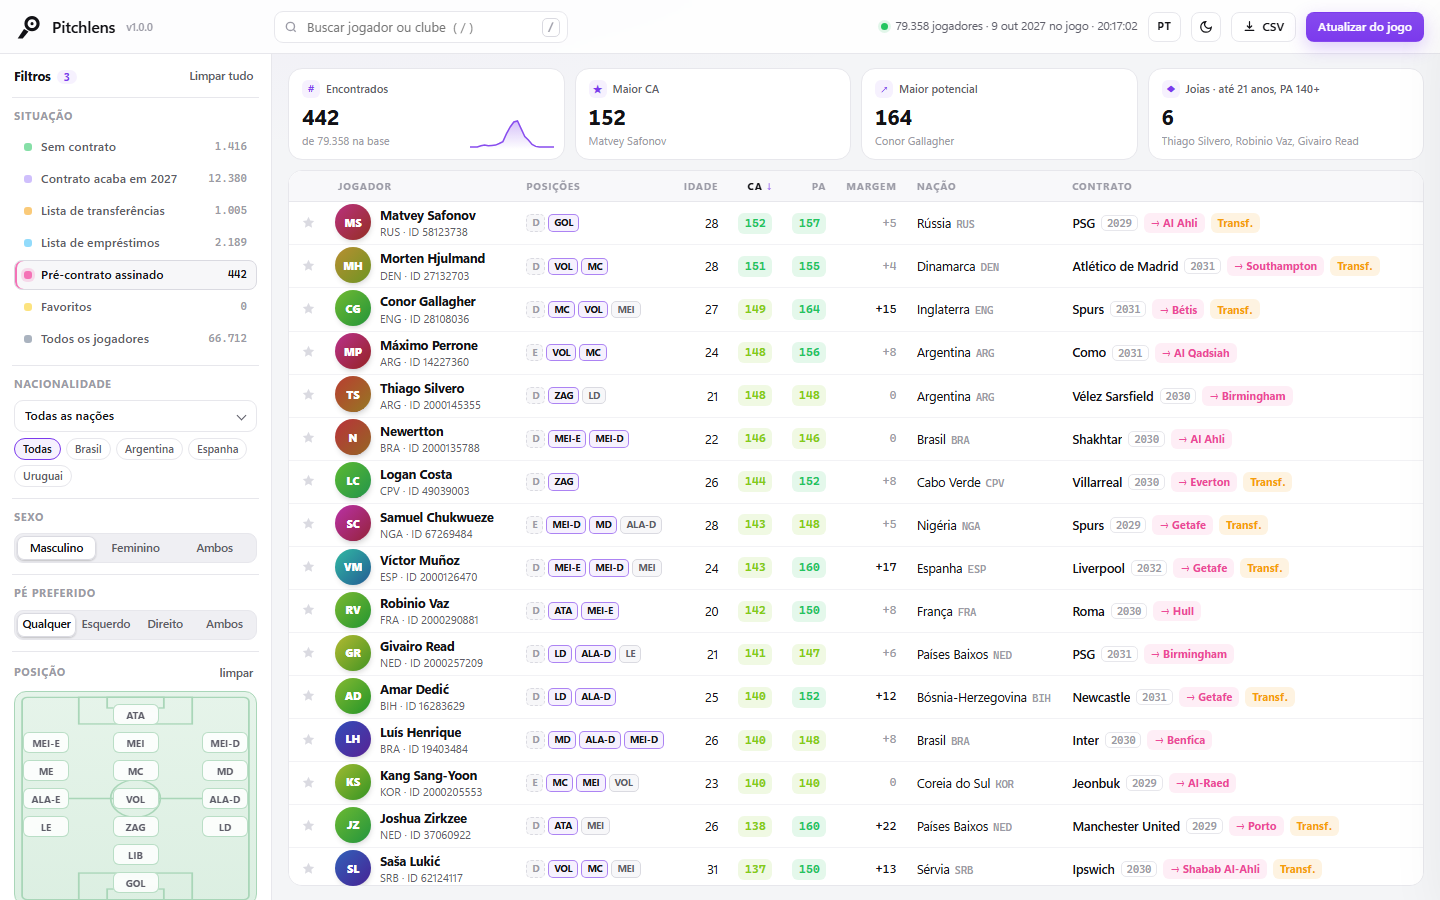
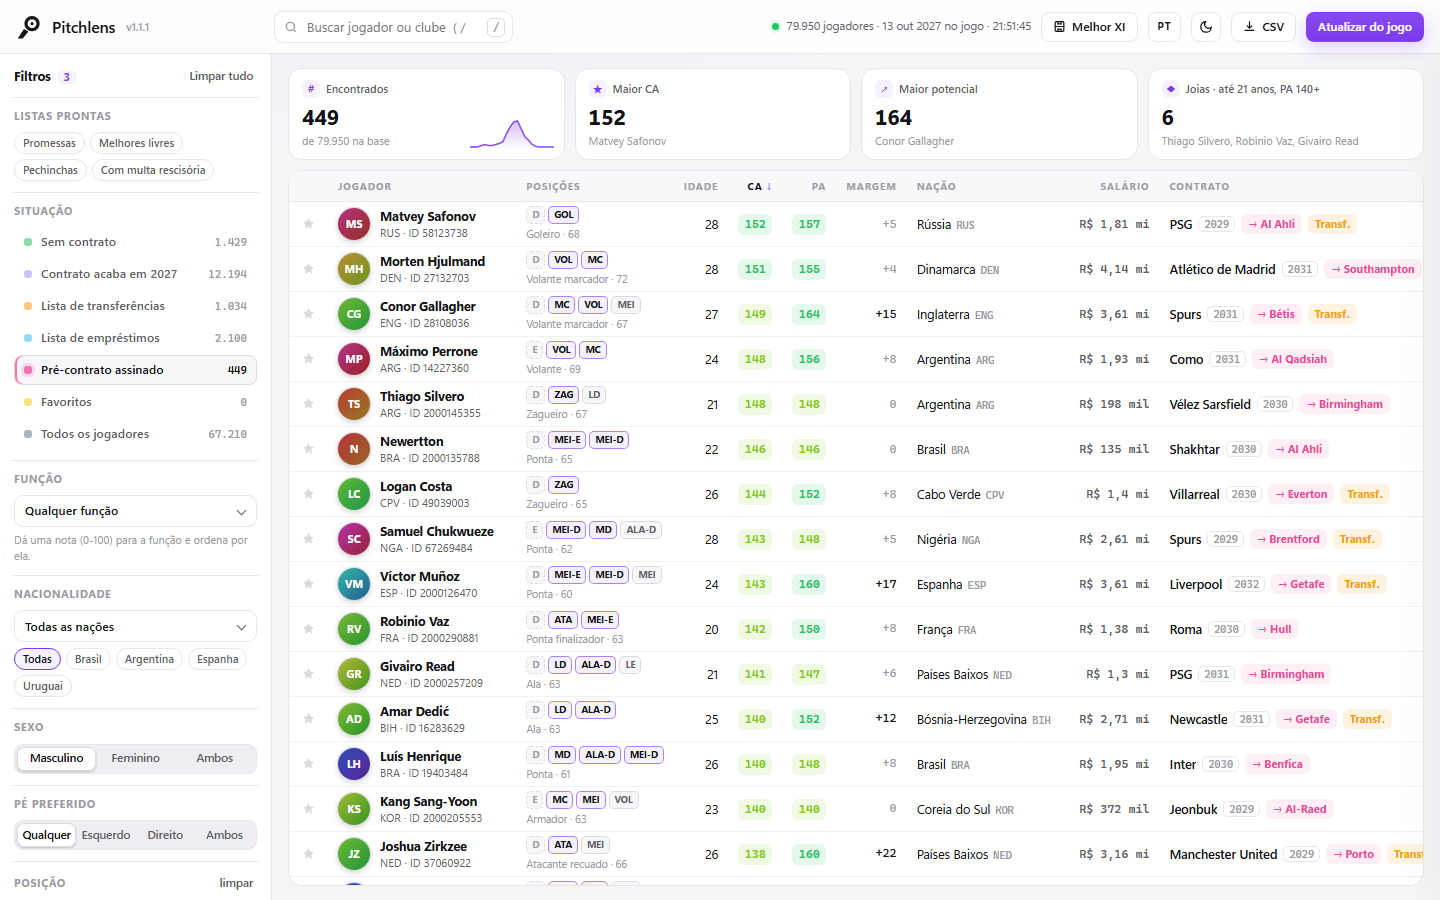
Pitchlens 1.1.2: real screenshots, squad status names, similar players by sex
- Squad status names for impact sub (5), hot prospect (10) and decent young player (11), matched with the in-game menu
- Similar players only compare men with men and women with women
- README screenshots from a real save (best XI, compare, role filter), without face-pack photos
- Research notes: player array stride, market value not stored, injury/personality candidates

diff --git a/web/i18n.js b/web/i18n.js
@@ -17,7 +17,7 @@ const I18N = {
     th_wage: 'Wage', th_role: 'Role', wage: 'Wage', releaseClause: 'Release clause', none: 'None', squadStatus: 'Squad status',
     contractEnds: 'Contract ends', perWeek: '/wk', perMonth: '/mo', bestRoles: 'Best roles', similar: 'Similar players',
     roleNote: 'Pitchlens rating from the attributes, adjusted by position familiarity.', roleRawTip: 'Attributes only: {n}',
-    sq_star: 'Star player', sq_important: 'Important player', sq_regular: 'Regular starter', sq_squad: 'Squad player', sq_fringe: 'Fringe player',
+    sq_star: 'Star player', sq_important: 'Important player', sq_regular: 'Regular starter', sq_squad: 'Squad player', sq_fringe: 'Fringe player', sq_impact: 'Impact sub', sq_hot: 'Hot prospect', sq_young: 'Decent young player',
     situation: 'Situation', nationality: 'Nationality', allNations: 'All nations', all: 'All', sex: 'Sex',
     male: 'Male', female: 'Female', both: 'Both', foot: 'Preferred foot', any: 'Any', left: 'Left', right: 'Right',
     position: 'Position', natural: 'Natural', accomplished: 'Accomplished', unconvincing: 'Unconvincing',
@@ -66,7 +66,7 @@ const I18N = {
     th_wage: 'Salário', th_role: 'Função', wage: 'Salário', releaseClause: 'Multa rescisória', none: 'Nenhuma', squadStatus: 'Status no elenco',
     contractEnds: 'Contrato até', perWeek: '/sem', perMonth: '/mês', bestRoles: 'Melhores funções', similar: 'Jogadores parecidos',
     roleNote: 'Nota do Pitchlens pelos atributos, ajustada pela familiaridade com a posição.', roleRawTip: 'Só atributos: {n}',
-    sq_star: 'Jogador estrela', sq_important: 'Jogador importante', sq_regular: 'Titular regular', sq_squad: 'Jogador de plantel', sq_fringe: 'Jogador secundário',
+    sq_star: 'Jogador estrela', sq_important: 'Jogador importante', sq_regular: 'Titular regular', sq_squad: 'Jogador de plantel', sq_fringe: 'Jogador secundário', sq_impact: 'Arma secreta', sq_hot: 'Promessa de futuro', sq_young: 'Jogador jovem',
     situation: 'Situação', nationality: 'Nacionalidade', allNations: 'Todas as nações', all: 'Todas', sex: 'Sexo',
     male: 'Masculino', female: 'Feminino', both: 'Ambos', foot: 'Pé preferido', any: 'Qualquer', left: 'Esquerdo', right: 'Direito',
     position: 'Posição', natural: 'Natural', accomplished: 'Acostumado', unconvincing: 'Improvisa',

diff --git a/web/roles.js b/web/roles.js
@@ -107,11 +107,11 @@ function bestRole(p) {
 }
 function topRoles(p, n = 6) { return ROLES.map(r => [r.id, roleRating(p, r), roleRaw(p, r)]).sort((a, b) => b[1] - a[1]).slice(0, n); }
 
-// similar players: distance between attribute profiles (goalkeepers compared with goalkeepers)
+// similar players: distance between attribute profiles (goalkeepers with goalkeepers, men with men, women with women)
 function similarPlayers(p, pool, n = 8) {
   const gk = (p.pos[0] || 0) >= 15, set = gk ? GK_SET : OUTFIELD_SET, A = attrsOf(p), out = [];
   for (const o of pool) {
-    if (o.uid === p.uid || ((o.pos[0] || 0) >= 15) !== gk || !o.a) continue;
+    if (o.uid === p.uid || ((o.pos[0] || 0) >= 15) !== gk || !o.a || !o.female !== !p.female) continue;
     const B = attrsOf(o); let d = 0;
     for (const i of set) { const x = A[i] - B[i]; d += x * x; }
     out.push([o, d]);

diff --git a/tests/web.test.js b/tests/web.test.js
@@ -49,7 +49,8 @@ test('a finisher is rated best as a poacher-type striker, not a keeper', () => {
 test('similar players are sorted by closeness and skip the player himself', () => {
   const base = mk(1, i => 10 + (i % 5), 12);
   const near = mk(2, i => 10 + (i % 5) + (i === 3 ? 1 : 0), 12), far = mk(3, () => 2, 12), gk = mk(4, i => 10 + (i % 5), 0);
-  const out = T.similarPlayers(base, [base, far, near, gk], 3);
+  const twin = Object.assign(mk(5, i => 10 + (i % 5), 12), {female: true});
+  const out = T.similarPlayers(base, [base, far, near, gk, twin], 3);
   assert.deepStrictEqual(Array.from(out, ([o]) => o.uid), [2, 3]);
   assert.ok(out[0][1] > out[1][1]);
 });

diff --git a/web/app.js b/web/app.js
@@ -27,7 +27,7 @@ const LISTS = {
 const LIST_RULE = {bargains: p => !p.free && p.wage > 0, release: p => p.release > 0};
 // money is stored in GBP; rates are approximate (BRL matches FM27's own rate)
 const CUR = {GBP: ['£', 1], EUR: ['€', 1.17], USD: ['$', 1.27], BRL: ['R$', 6.951]};
-const SQUAD = {1: 'sq_star', 2: 'sq_important', 3: 'sq_regular', 4: 'sq_squad', 7: 'sq_fringe'};
+const SQUAD = {1: 'sq_star', 2: 'sq_important', 3: 'sq_regular', 4: 'sq_squad', 5: 'sq_impact', 7: 'sq_fringe', 10: 'sq_hot', 11: 'sq_young'};
 const NOPHOTO = new URLSearchParams(location.search).get('photos') === '0';
 
 let F = Object.assign({}, DEF, store('filters') || {});

diff --git a/tools/screenshots.py b/tools/screenshots.py
@@ -13,6 +13,7 @@ ROOT = Path(__file__).resolve().parents[1]
 OUT = ROOT / 'docs' / 'img'
 PORT = sys.argv[1] if len(sys.argv) > 1 else '8771'
 UID = sys.argv[2] if len(sys.argv) > 2 else ''
+XI_CLUB = sys.argv[3] if len(sys.argv) > 3 else 'Ava%C3%AD'   # club for the best-XI shot (URL-encoded)
 EDGE = next(p for p in (
     Path(os.environ.get('ProgramFiles(x86)', '')) / 'Microsoft/Edge/Application/msedge.exe',
     Path(os.environ.get('ProgramFiles', '')) / 'Microsoft/Edge/Application/msedge.exe') if p.is_file())
@@ -21,6 +22,9 @@ SHOTS = [
     ('overview-dark.png', 'lang=en&theme=dark&sit=all&photos=0'),
     ('overview-light.png', 'lang=pt&theme=light&sit=pre&photos=0'),
     ('player-dark.png', f'lang=en&theme=dark&photos=0&p={UID}'),
+    ('compare.png', 'lang=en&theme=dark&photos=0&cmp=29179241,85139014,28049320'),
+    ('roles-light.png', 'lang=en&theme=light&sit=all&photos=0&role=w'),
+    ('best-xi.png', f'lang=pt&theme=dark&photos=0&xi={XI_CLUB}&form=4-3-3'),
 ]
 
 OUT.mkdir(parents=True, exist_ok=True)
@@ -30,6 +34,6 @@ for name, query in SHOTS:
     target = OUT / name
     subprocess.run([str(EDGE), '--headless=new', '--disable-gpu', '--hide-scrollbars', '--window-size=1440,900',
                     '--force-device-scale-factor=1', f'--user-data-dir={OUT / ".edge-profile"}',
-                    '--virtual-time-budget=20000', f'--screenshot={target}',
+                    '--virtual-time-budget=60000', f'--screenshot={target.resolve()}',
                     f'http://127.0.0.1:{PORT}/?{query}'], check=False, capture_output=True)
     print(name, 'ok' if target.exists() else 'FAILED')

diff --git a/fmreader.py b/fmreader.py
@@ -34,7 +34,7 @@ C_START = 0x44          # uint16 day of year (& 0x1FF), uint16 year - contract s
 C_END = 0x48            # uint16 day of year, uint16 year
 C_STATUS = 0x57         # byte: 0x01 = transfer listed, 0x02 = loan listed
 C_WAGE = 0x20           # int32 wage per week (GBP)
-C_SQUAD = 0x54          # byte: squad status (1 star player, 2 important, 3 regular starter, 4 squad player, 7 fringe...)
+C_SQUAD = 0x54          # byte: squad status (1 star, 2 important, 3 regular starter, 4 squad, 5 impact sub, 7 fringe, 10 hot prospect, 11 young)
 C_CLAUSES = 0x68        # vector begin/end of 8-byte clauses [int32 value][uint16 arg][uint16 type]
 CLAUSE_RELEASE = (0x10, 0x12)   # minimum fee release clause (foreign clubs / domestic clubs)
 CLUB_UID = 0x0C

diff --git a/scout.py b/scout.py
@@ -25,7 +25,7 @@ sys.path.insert(0, str(ROOT))
 import faces  # noqa: E402
 import fmreader  # noqa: E402
 
-__version__ = '1.1.1'
+__version__ = '1.1.2'
 REPO = 'HerikR0drigues/pitchlens'
 HOST, PORT = '127.0.0.1', 8770
 WEB = ROOT / 'web'

diff --git a/docs/TECHNICAL.md b/docs/TECHNICAL.md
@@ -73,7 +73,7 @@ Offsets are relative to the object start (where the vtable pointer is).
 | `+0x44` | start date (day & 0x1FF, year) — the newest start shared by 3+ contracts ≈ today's in-game date |
 | `+0x48` | end date (day, year) |
 | `+0x20` | int32 wage per week (GBP) |
-| `+0x54` | squad status: `1` star player, `2` important, `3` regular starter, `4` squad player, `7` fringe (others not mapped yet) |
+| `+0x54` | squad status: `1` star player, `2` important, `3` regular starter, `4` squad player, `5` impact sub, `7` fringe, `10` hot prospect, `11` decent young player (13, 15, 16, 20-22 seen but not identified; found by matching the in-game status menu order and the CA/PA/age profile of each code) |
 | `+0x57` | status: `0x01` transfer listed, `0x02` loan listed |
 | `+0x68`, `+0x70` | clause vector (begin, end); 8-byte entries `[int32 value][uint16 arg][uint16 type]`. Types seen: `0x08` sell-on % (arg), `0x0E` wage rise on promotion, `0x10` / `0x12` minimum fee release clause (foreign / domestic clubs), `0x20` appearance bonus, `0x26` unused-sub bonus |
 
@@ -97,6 +97,20 @@ it is a **pre-contract** already signed (shown as `→ Club`). Placeholder recor
 ### Nation
 
 `+0x18` name, `+0x20` short name, `+0x28` three-letter code, `+0x30` adjective.
+
+## Research notes (not used by the app yet)
+
+- **Players live in one big array**: consecutive player objects are 968 bytes (`0x3C8`) apart, so a player spans
+  roughly `-0x138 .. +0x290` around its vtable.
+- **Market value is not stored on the player.** No int32 inside the player object (or in the objects it points to)
+  tracks CA the way a value would; only the reputation fields (`-0x2C .. -0x28`) and the contract's loyalty bonus
+  (`contract +0xA8`) do. FM most likely computes the value on demand (the screen shows a range that depends on
+  scouting knowledge).
+- **Injuries / personality** were not found yet: several pointers are set for only 1-25% of the players
+  (e.g. `+0x150/+0x158/+0x160` looks like a vector, `+0x210` is set for ~1%), but none holds dates around the
+  game date. Mapping them needs labelled examples (players known to be injured, editor values for personality).
+- The squad-status names were matched with the in-game status menu, which lists them in code order, and checked
+  against the age/CA/PA profile of each code (10 = young, high PA; 11 = younger, lower PA).
 
 ## Role ratings and similar players
 

diff --git a/README.md b/README.md
@@ -58,6 +58,12 @@ open source and with **zero dependencies**: just Python and your browser.
 
 ![Player profile](docs/img/player-dark.png)
 
+| Best XI (with the weakest spots) | Compare players |
+|---|---|
+| ![Best XI](docs/img/best-xi.png) | ![Compare](docs/img/compare.png) |
+
+![Role filter: wingers, sorted by role rating](docs/img/roles-light.png)
+
 ## Requirements
 
 - **Windows 10/11**

diff --git a/README.pt-BR.md b/README.pt-BR.md
@@ -59,6 +59,12 @@ e **não tem dependências**: só Python e o seu navegador.
 
 ![Ficha do jogador](docs/img/player-dark.png)
 
+| Melhor XI (com os pontos fracos) | Comparar jogadores |
+|---|---|
+| ![Melhor XI](docs/img/best-xi.png) | ![Comparar](docs/img/compare.png) |
+
+![Filtro por função: pontas, ordenados pela nota](docs/img/roles-light.png)
+
 ## Requisitos
 
 - **Windows 10/11**
